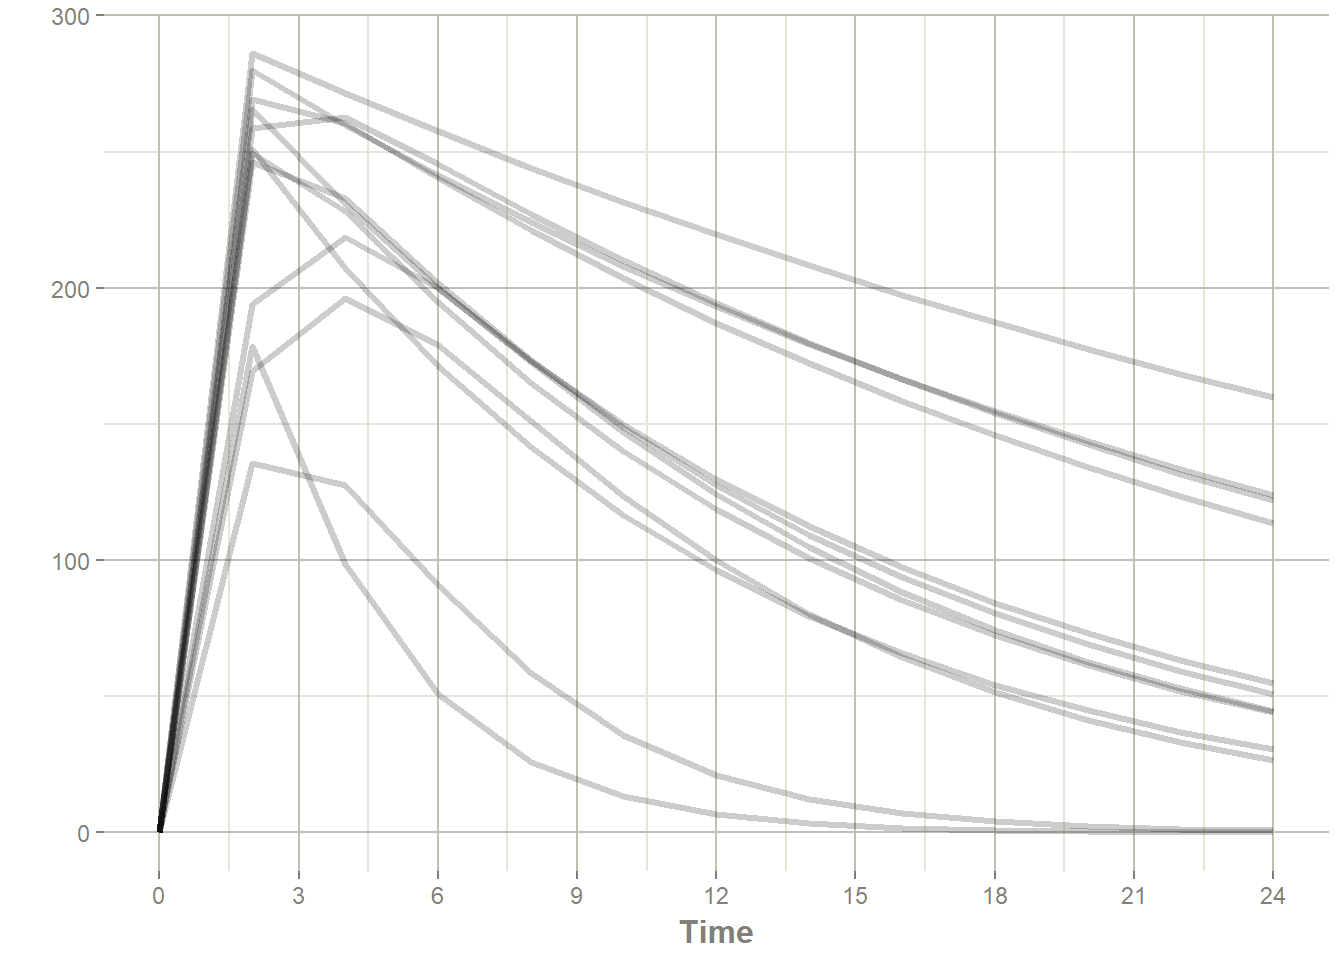
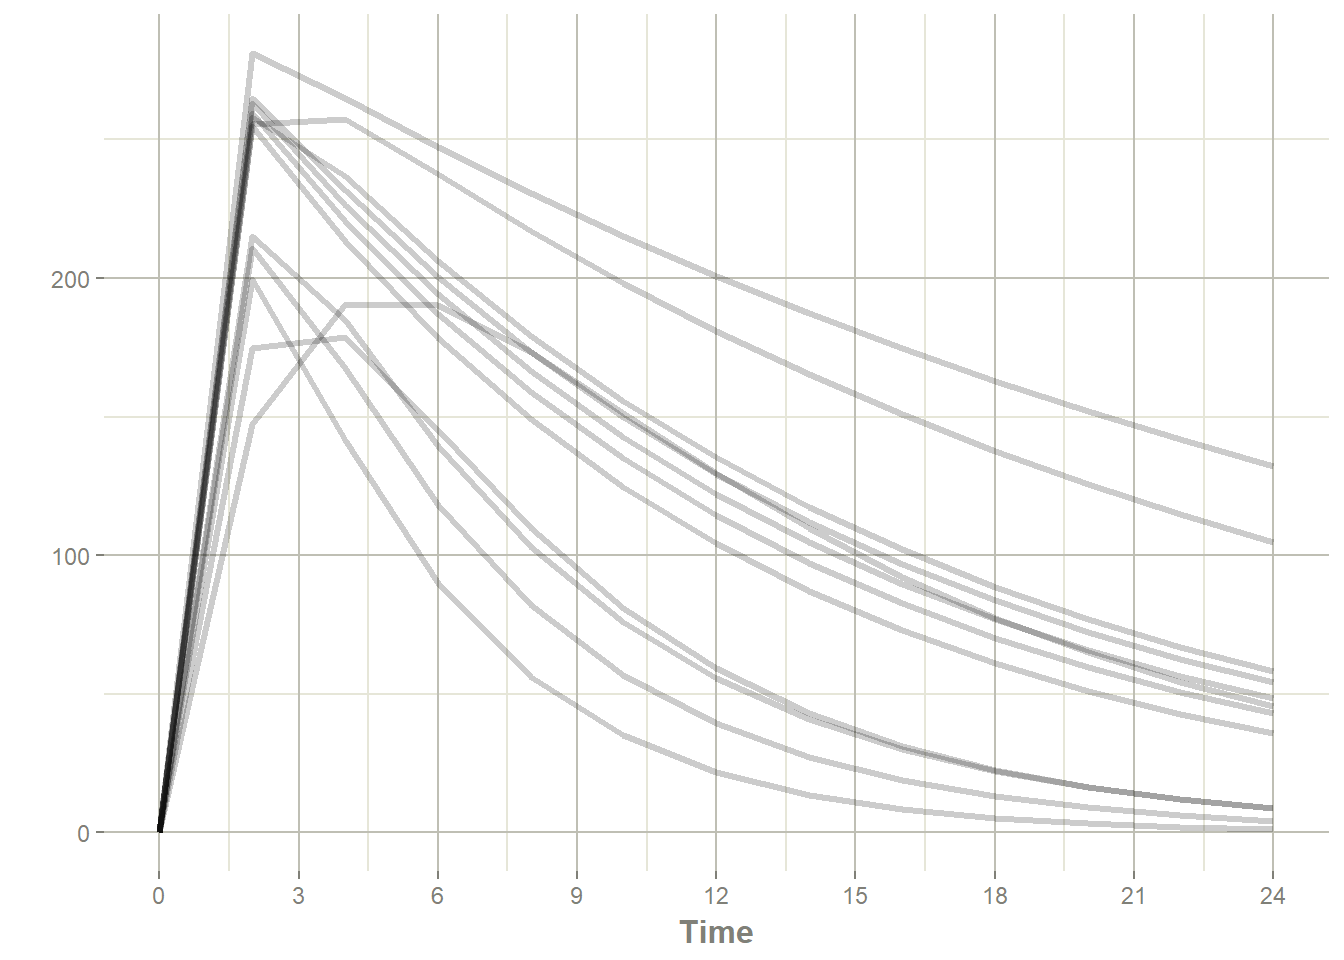
Update

diff --git a/content/blog/2022-10-12-rxode-and-rxode2/index.html b/content/blog/2022-10-12-rxode-and-rxode2/index.html
@@ -3,14 +3,8 @@ title: RxODE and rxode2
 author: Matthew Fidler
 date: '2022-10-12'
 slug: []
-categories:
-  - rxode2
+categories: [rxode2]
 tags: [new-version]
-subtitle: ''
-excerpt: ''
-draft: yes
-series: ~
-layout: single
 ---
 
 
@@ -88,33 +82,33 @@ s &lt;- rxSolve(one.compartment, et)</code></pre>
 <pre><code>## ── Solved rxode2 object ──
 ## ── Parameters ($params): ──
 ## # A tibble: 12 × 8
-##    id      tka   tcl    tv add.sd  eta.ka   eta.cl   eta.v
-##    &lt;fct&gt; &lt;dbl&gt; &lt;dbl&gt; &lt;dbl&gt;  &lt;dbl&gt;   &lt;dbl&gt;    &lt;dbl&gt;   &lt;dbl&gt;
-##  1 1      0.45     1  3.45    0.7 -0.0254 -1.22    -0.493 
-##  2 2      0.45     1  3.45    0.7 -0.913  -0.0312  -0.0223
-##  3 3      0.45     1  3.45    0.7  1.04   -0.747    0.433 
-##  4 4      0.45     1  3.45    0.7  1.54    0.187    0.0832
-##  5 5      0.45     1  3.45    0.7  0.598  -0.00939  0.173 
-##  6 6      0.45     1  3.45    0.7 -1.12    0.588    0.334 
-##  7 7      0.45     1  3.45    0.7  0.0256  0.847   -0.509 
-##  8 8      0.45     1  3.45    0.7 -0.153  -0.286   -0.241 
-##  9 9      0.45     1  3.45    0.7  1.58   -0.481    0.364 
-## 10 10     0.45     1  3.45    0.7 -0.260  -0.805   -0.688 
-## 11 11     0.45     1  3.45    0.7 -0.268  -0.508    0.289 
-## 12 12     0.45     1  3.45    0.7 -1.17    0.695   -0.509 
+##    id      tka   tcl    tv add.sd  eta.ka  eta.cl   eta.v
+##    &lt;fct&gt; &lt;dbl&gt; &lt;dbl&gt; &lt;dbl&gt;  &lt;dbl&gt;   &lt;dbl&gt;   &lt;dbl&gt;   &lt;dbl&gt;
+##  1 1      0.45     1  3.45    0.7 -0.0346  0.286   0.490 
+##  2 2      0.45     1  3.45    0.7  0.619   0.298   0.411 
+##  3 3      0.45     1  3.45    0.7 -0.282  -0.688  -0.0462
+##  4 4      0.45     1  3.45    0.7  1.04   -0.185  -0.131 
+##  5 5      0.45     1  3.45    0.7 -0.247   0.946  -0.0609
+##  6 6      0.45     1  3.45    0.7 -0.409   0.232  -0.344 
+##  7 7      0.45     1  3.45    0.7 -0.326   0.306  -0.452 
+##  8 8      0.45     1  3.45    0.7 -0.951   0.131  -0.490 
+##  9 9      0.45     1  3.45    0.7  1.31    0.141   0.107 
+## 10 10     0.45     1  3.45    0.7 -1.39    0.0473  0.0123
+## 11 11     0.45     1  3.45    0.7  0.386  -0.388  -0.217 
+## 12 12     0.45     1  3.45    0.7  0.383  -0.578   0.330 
 ## ── Initial Conditions ($inits): ──
 ##  depot center 
 ##      0      0 
 ## ── First part of data (object): ──
 ## # A tibble: 156 × 10
-##      id  time    ka    cl     v    cp ipredSim    sim       depot center
-##   &lt;int&gt; &lt;dbl&gt; &lt;dbl&gt; &lt;dbl&gt; &lt;dbl&gt; &lt;dbl&gt;    &lt;dbl&gt;  &lt;dbl&gt;       &lt;dbl&gt;  &lt;dbl&gt;
-## 1     1     0  1.53 0.800  19.2   0        0   -0.413 300             0 
-## 2     1     2  1.53 0.800  19.2  14.0     14.0 13.6    14.1         269.
-## 3     1     4  1.53 0.800  19.2  13.5     13.5 13.5     0.662       260.
-## 4     1     6  1.53 0.800  19.2  12.5     12.5 12.4     0.0311      240.
-## 5     1     8  1.53 0.800  19.2  11.5     11.5 11.9     0.00146     221.
-## 6     1    10  1.53 0.800  19.2  10.6     10.6 10.4     0.0000687   203.
+##      id  time    ka    cl     v    cp ipredSim   sim       depot center
+##   &lt;int&gt; &lt;dbl&gt; &lt;dbl&gt; &lt;dbl&gt; &lt;dbl&gt; &lt;dbl&gt;    &lt;dbl&gt; &lt;dbl&gt;       &lt;dbl&gt;  &lt;dbl&gt;
+## 1     1     0  1.51  3.62  51.4  0        0    0.848 300             0 
+## 2     1     2  1.51  3.62  51.4  5.02     5.02 5.34   14.5         258.
+## 3     1     4  1.51  3.62  51.4  4.60     4.60 4.87    0.700       237.
+## 4     1     6  1.51  3.62  51.4  4.01     4.01 3.70    0.0338      206.
+## 5     1     8  1.51  3.62  51.4  3.48     3.48 2.33    0.00164     179.
+## 6     1    10  1.51  3.62  51.4  3.03     3.03 2.40    0.0000790   156.
 ## # … with 150 more rows</code></pre>
 <pre class="r"><code>plot(s, center)</code></pre>
 <p><img src="{{< blogdown/postref >}}index_files/figure-html/simulation-1.png" width="672" /></p>
@@ -176,31 +170,31 @@ print(s)</code></pre>
 ## # A tibble: 12 × 7
 ##    id      tka   tcl    tv add.sd  eta.cl    eta.v
 ##    &lt;fct&gt; &lt;dbl&gt; &lt;dbl&gt; &lt;dbl&gt;  &lt;dbl&gt;   &lt;dbl&gt;    &lt;dbl&gt;
-##  1 1      0.45     1  3.45    0.7 -0.129  -0.0487 
-##  2 2      0.45     1  3.45    0.7  0.492   0.432  
-##  3 3      0.45     1  3.45    0.7  0.221  -0.536  
-##  4 4      0.45     1  3.45    0.7 -0.828   0.157  
-##  5 5      0.45     1  3.45    0.7 -0.251   0.00831
-##  6 6      0.45     1  3.45    0.7  0.0722 -0.233  
-##  7 7      0.45     1  3.45    0.7 -0.226   0.0506 
-##  8 8      0.45     1  3.45    0.7 -0.319  -0.352  
-##  9 9      0.45     1  3.45    0.7  0.292   0.115  
-## 10 10     0.45     1  3.45    0.7 -0.857  -0.569  
-## 11 11     0.45     1  3.45    0.7  0.264   0.0543 
-## 12 12     0.45     1  3.45    0.7 -1.12    0.121  
+##  1 1      0.45     1  3.45    0.7 -0.0853 -0.643  
+##  2 2      0.45     1  3.45    0.7 -1.04    0.136  
+##  3 3      0.45     1  3.45    0.7  0.514   0.747  
+##  4 4      0.45     1  3.45    0.7  1.01    0.187  
+##  5 5      0.45     1  3.45    0.7  0.313  -0.118  
+##  6 6      0.45     1  3.45    0.7  0.852   0.00775
+##  7 7      0.45     1  3.45    0.7 -0.377  -0.190  
+##  8 8      0.45     1  3.45    0.7  0.870  -0.0606 
+##  9 9      0.45     1  3.45    0.7 -0.446  -0.197  
+## 10 10     0.45     1  3.45    0.7  0.619   0.0127 
+## 11 11     0.45     1  3.45    0.7  0.238  -0.239  
+## 12 12     0.45     1  3.45    0.7 -0.115   0.0702 
 ## ── Initial Conditions ($inits): ──
 ##  depot center 
 ##      0      0 
 ## ── First part of data (object): ──
 ## # A tibble: 156 × 10
-##      id  time    ka    cl     v    cp ipredSim     sim       depot center
-##   &lt;int&gt; &lt;dbl&gt; &lt;dbl&gt; &lt;dbl&gt; &lt;dbl&gt; &lt;dbl&gt;    &lt;dbl&gt;   &lt;dbl&gt;       &lt;dbl&gt;  &lt;dbl&gt;
-## 1     1     0  1.57  2.39  30.0  0        0    -0.0765 300             0 
-## 2     1     2  1.57  2.39  30.0  8.53     8.53  9.40    13.0         256.
-## 3     1     4  1.57  2.39  30.0  7.64     7.64  8.63     0.566       229.
-## 4     1     6  1.57  2.39  30.0  6.53     6.53  6.41     0.0246      196.
-## 5     1     8  1.57  2.39  30.0  5.57     5.57  6.04     0.00107     167.
-## 6     1    10  1.57  2.39  30.0  4.75     4.75  4.52     0.0000463   143.
+##      id  time    ka    cl     v    cp ipredSim    sim       depot center
+##   &lt;int&gt; &lt;dbl&gt; &lt;dbl&gt; &lt;dbl&gt; &lt;dbl&gt; &lt;dbl&gt;    &lt;dbl&gt;  &lt;dbl&gt;       &lt;dbl&gt;  &lt;dbl&gt;
+## 1     1     0  1.57  2.50  16.6  0        0     0.566 300            0  
+## 2     1     2  1.57  2.50  16.6 14.0     14.0  13.6    13.0        231. 
+## 3     1     4  1.57  2.50  16.6 10.9     10.9  10.2     0.566      181. 
+## 4     1     6  1.57  2.50  16.6  8.11     8.11  6.85    0.0246     134. 
+## 5     1     8  1.57  2.50  16.6  6.00     6.00  5.33    0.00107     99.4
+## 6     1    10  1.57  2.50  16.6  4.44     4.44  5.35    0.0000463   73.5
 ## # … with 150 more rows</code></pre>
 <pre class="r"><code>plot(s, center)</code></pre>
 <p><img src="{{< blogdown/postref >}}index_files/figure-html/piping-1.png" width="672" /></p>
